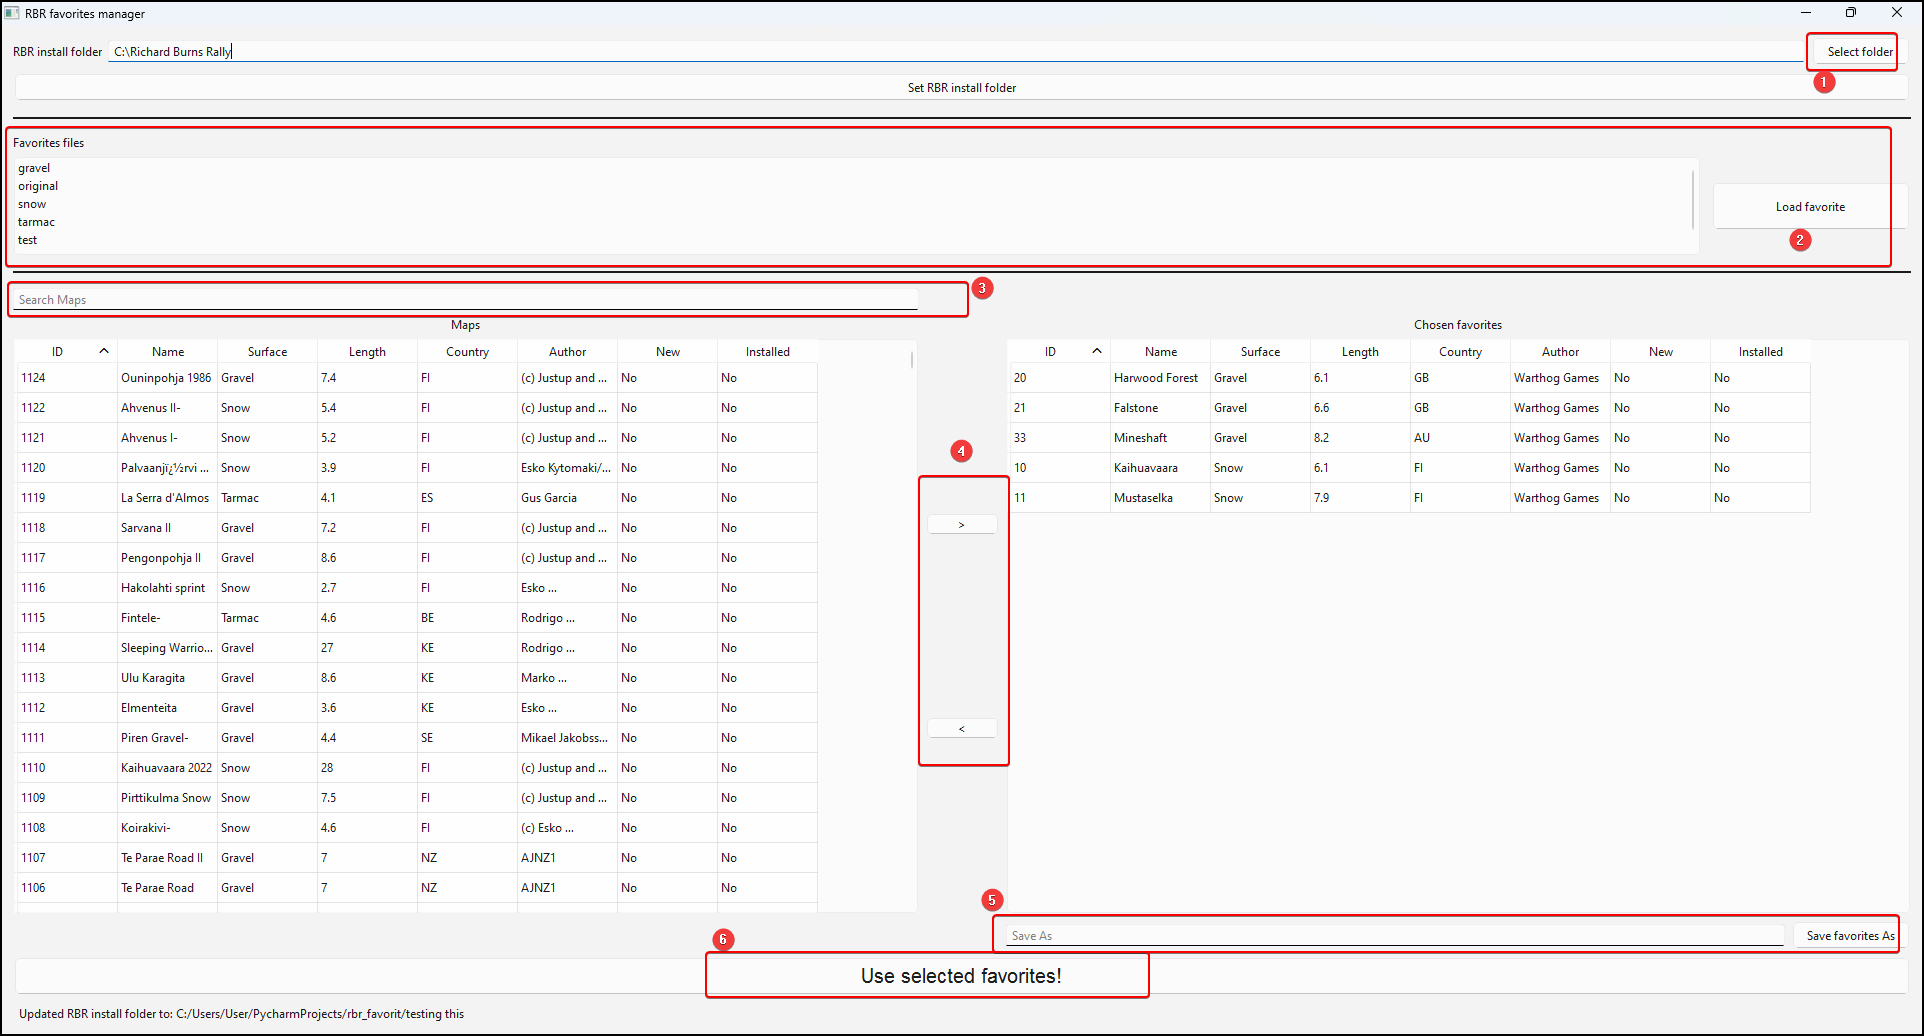
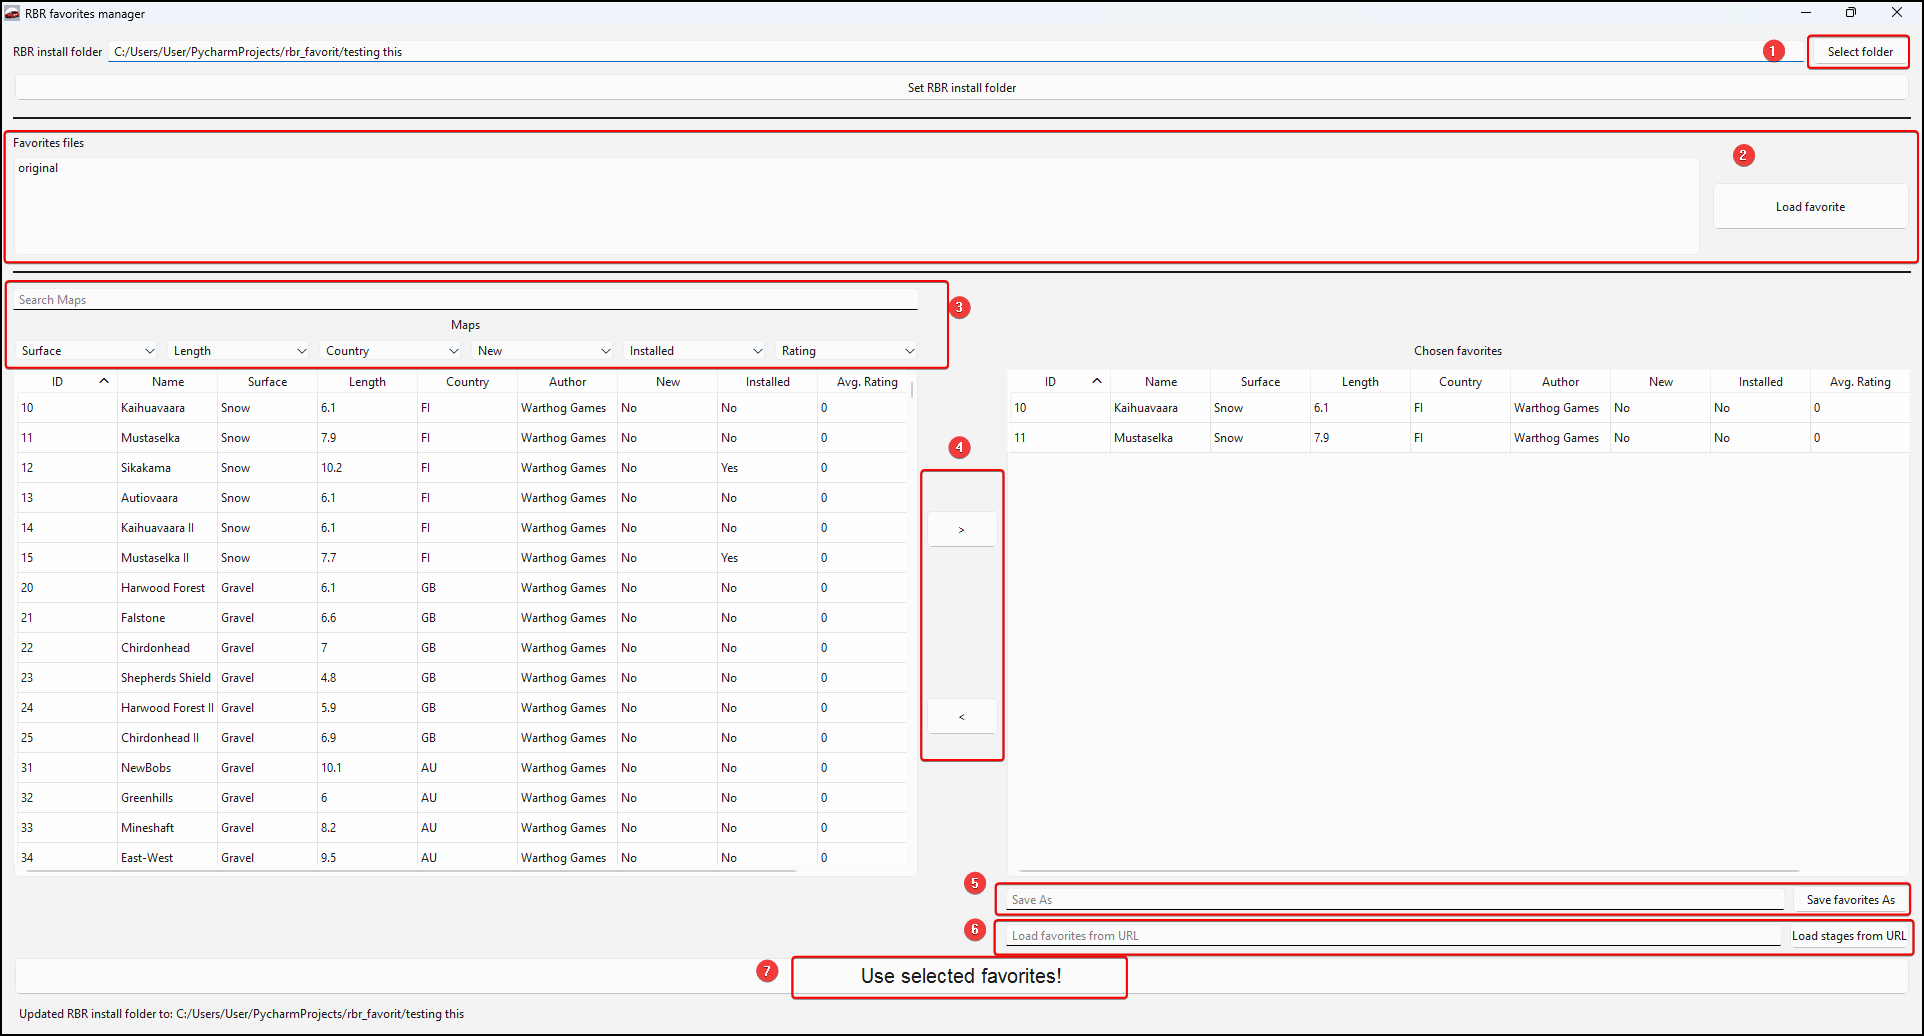
updated readme

diff --git a/README.md b/README.md
@@ -1,11 +1,11 @@
 # Info
-This program will help managing the favorites for the Richard Burns rally game and using the rsf plugin.
+This program helps managing the favorites for the Richard Burns rally game when using the rsf plugin.
 
 This program shows the data regarding all stages and allows the creation of custom favorites listings.
 
 It uses rsf's favorites handling methodology and replaces the currents favorites file with the one selected in the application.
 
-It's primary goal was to allow checking an online rally stages from the RSF's website, and, using the application, create a new favorites file with all the stages from the online rally, this would allow the players to see all the stages in the "Favorites" category of the "Practice" mode.
+It's primary goal is to allow checking an online rally stages from the [RSF's website](https://rallysimfans.hu/rbr/rally_online.php), and, using the application, create a new favorites file with all the stages from the online rally, this will allow the players to see all the selected stages in the "Favorites" category of the "Practice" mode.
 
 # Installation
 Download the zip from the [releases](https://github.com/digoblin/rbr_favorites_manager/releases) and extract it. The executable will be available on the extracted folder.
@@ -21,7 +21,8 @@ This is the program's main window:
 
 1. Start by selecting the RBR install folder, if needed press the "Set RBR Install folder" button
 2. This will display all created favorites listing so far, they are saved as "favorite_[name]" in the **[RBRINSTALLDIR]/rsfdata/cache/** folder
-3. Search for maps using any column to filter
-4. Use the button to include or exclude maps to the current selected favorites
-5. Save the current favorites with a name
-6. Set the current favorites as the ones to use in RBR. You **MUST** press this to view the favorites in RBR.
+3. Search for maps or/and use the filters
+4. Use the button to include or exclude maps to the current selected favorites (double clicking a row also works)
+5. Save the current favorites with a name (for creating custom listings)
+6. Insert the URL from an online rally from [RSF's website](https://rallysimfans.hu/rbr/rally_online.php) to automatically load the stages (only works if online rally is using the original names)
+7. You **MUST** press this to view the favorites in RBR. Sets the current favorites as the ones to use in RBR. 
